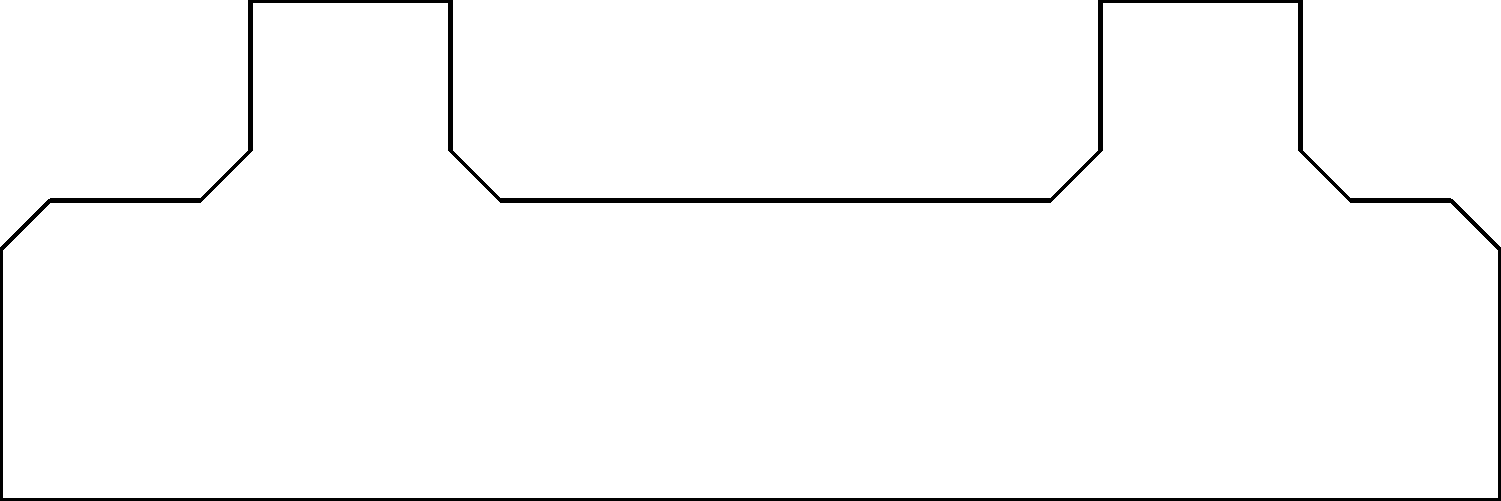
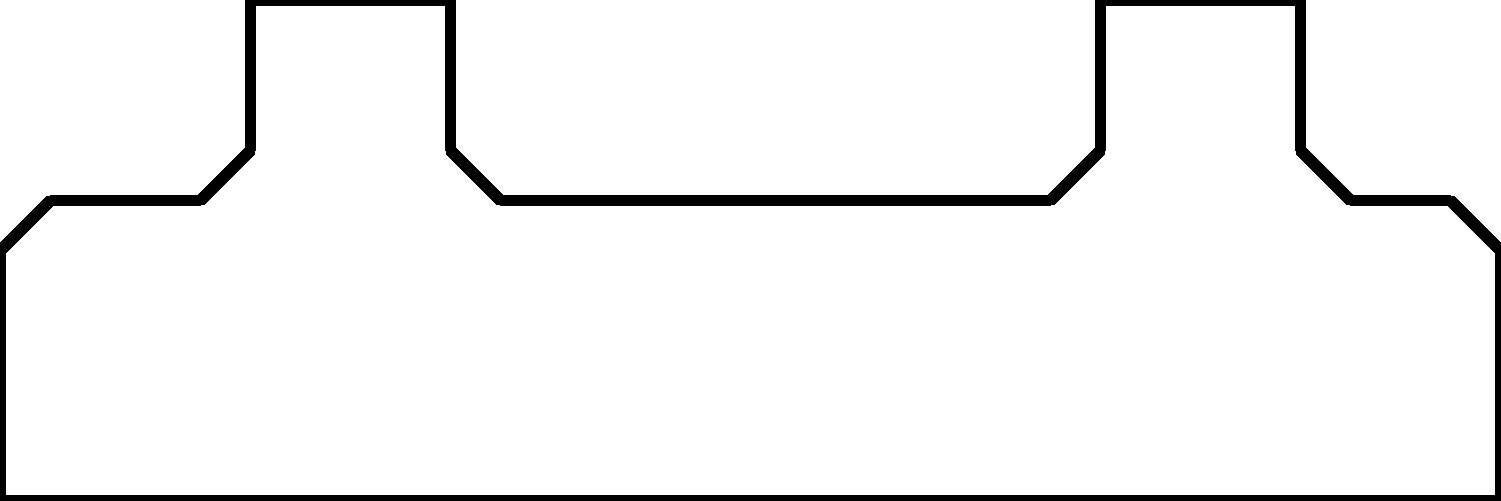
Modify bugs: better pointcloud Fix line tickness of scenario to png

diff --git a/pedsim_sensors/src/pedsim_sensors/point_cloud.cpp b/pedsim_sensors/src/pedsim_sensors/point_cloud.cpp
@@ -34,6 +34,10 @@
 #include <random>
 #define INF 100000000
 
+template <typename T> int sgn(T val) {
+    return (T(0) < val) - (val < T(0));
+}
+
 namespace pedsim_ros {
 
 using Cell = std::complex<float>;
@@ -66,16 +70,16 @@ float PointCloud::index_to_rad(uint index){
 
 void PointCloud::fillDetectedObss(std::vector<Cell>& detected_obss, Cell cell, float width){
   Cell obs = cell - Cell(fov_->origin_x, fov_->origin_y);
-  for (float edge : {-width, width}){
-    for (float dw = -width; dw <= width; dw += width / 10) {
-      for (auto new_obs : {obs + Cell(edge, dw), obs + Cell(dw, edge)}){
-        auto r = std::abs(new_obs);
-        auto theta = std::arg(new_obs);
-        uint index = rad_to_index(theta);
-        if (r < std::abs(detected_obss[index])) {
-          auto polar = std::polar(r, theta);
-          detected_obss[index] = polar;
-        }
+  float edge_x = -width * sgn(obs.real());
+  float edge_y = -width * sgn(obs.imag());
+  for (float dw = -width; dw <= width; dw += width / 10) {
+    for (auto new_obs : {obs + Cell(edge_x, dw), obs + Cell(dw, edge_y)}){
+      auto r = std::abs(new_obs);
+      auto theta = std::arg(new_obs);
+      uint index = rad_to_index(theta);
+      if (r < std::abs(detected_obss[index])) {
+        auto polar = std::polar(r, theta);
+        detected_obss[index] = polar;
       }
     }
   }

diff --git a/pedsim_simulator/scripts/scenario_to_png.py b/pedsim_simulator/scripts/scenario_to_png.py
@@ -51,7 +51,7 @@ grid = np.zeros((height, width), np.uint8)
 
 for obstacle in obstacles:
     grid = cv2.line(
-        grid, (obstacle[0], obstacle[2]), (obstacle[1], obstacle[3]), 255, 3)
+        grid, (obstacle[0], obstacle[2]), (obstacle[1], obstacle[3]), 255, int(1 / resolution))
 
 grid = cv2.flip(grid, 0)
 
